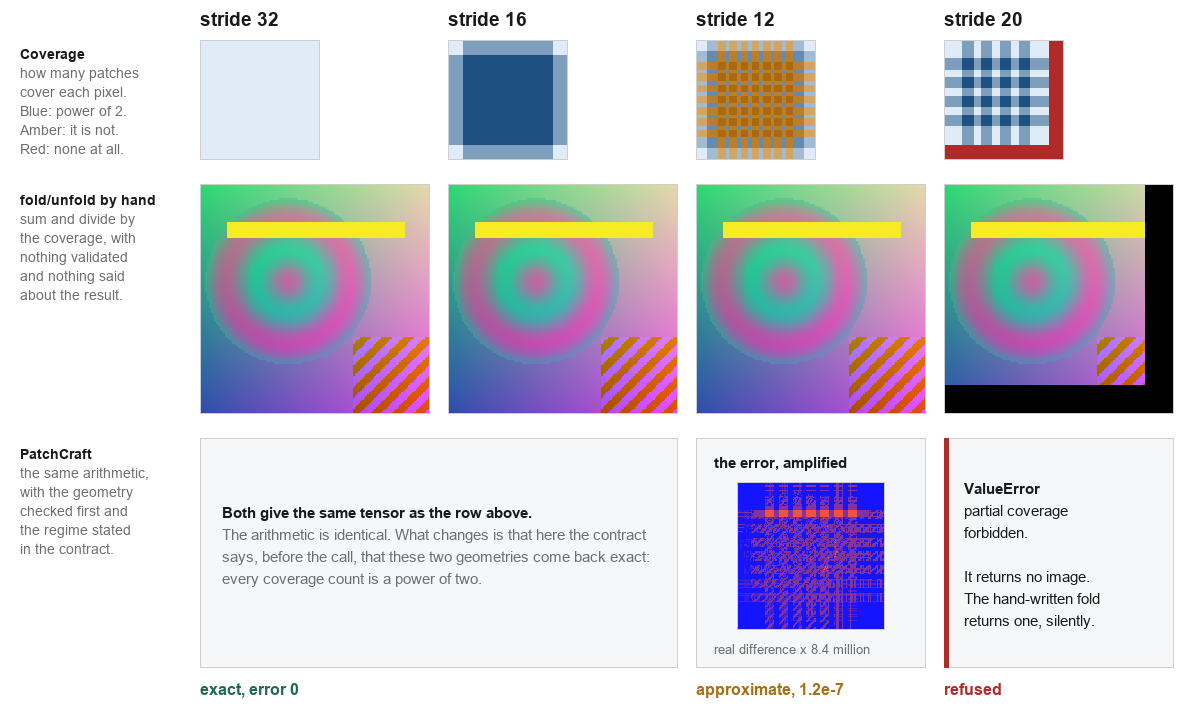
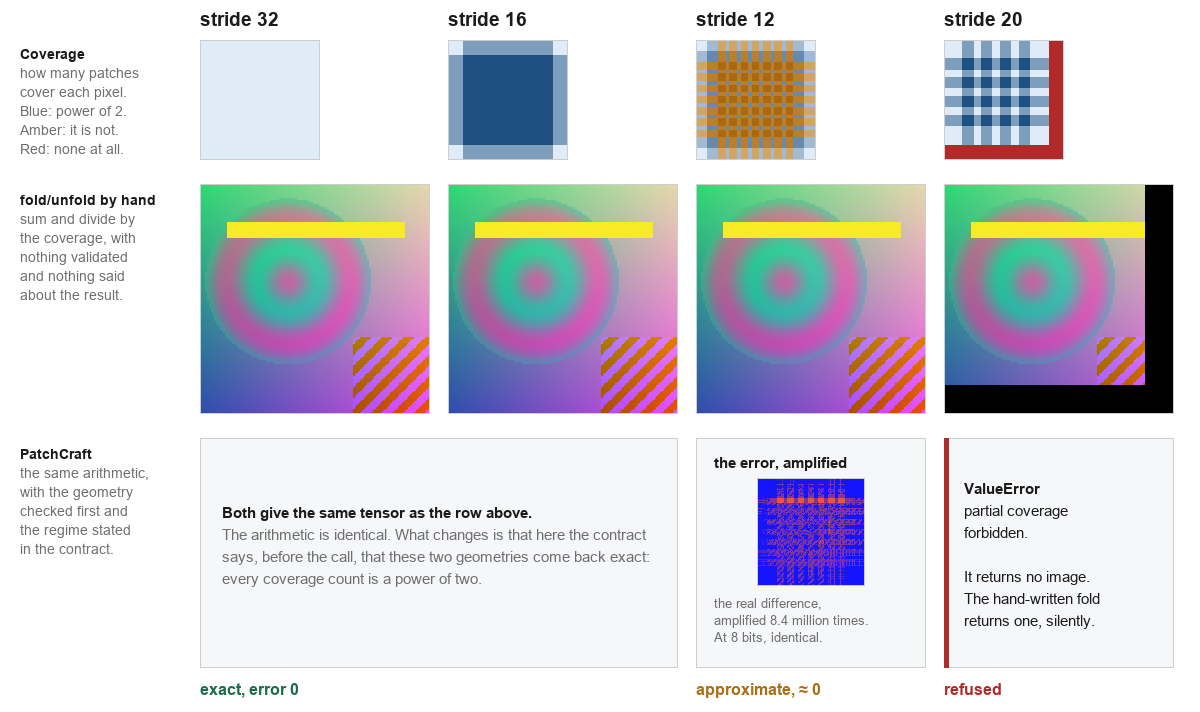
docs(outreach): say what 1.2e-7 means before saying what it is
A reader's point, and it is an editorial one worth keeping: 1.2e-7 is
correct and tells a human nothing about whether it matters. In an
illustration the useful thing is the significance; the precise figure
belongs where the library is being characterised.

So the stride 12 column now reads "aproximada, ~ 0", and the error panel
carries the two facts that give the number a scale: the map is the real
difference amplified 8.4 million times, and once both images are 8 bits
they are bit for bit identical. The amplification factor and that
identity are computed at draw time, with an assert, rather than typed in.

The page keeps the precise value and adds the measures around it: the
maximum error is 1.1921e-07, which is 151.5 dB of PSNR where 40 dB is
already treated as visually lossless, and it fits 32,897 times inside one
8-bit step. The difference only surfaces at 16 bits.

It also says why the contract still declares it, so that "approximately
zero" does not read as "ignore this": anyone summing thousands of patches
or chaining the operation accumulates. What the figure claims is that
approximate here is below what an eye or an 8-bit file records, not that
the error is nothing.

Changed region(s): [[0.5858, 0.6489, 0.74, 0.927], [0.6475, 0.9579, 0.7092, 0.9888]]

diff --git a/tools/make_outreach_figures.py b/tools/make_outreach_figures.py
@@ -676,13 +676,26 @@ def fig_stride(lang: str) -> None:
     back = reconstruct(
         extract(img, patch_size=PATCH, stride=st), image_shape=(3, SIZE, SIZE), stride=st
     )
-    heat, _peak = error_map(back, img)
+    heat, peak = error_map(back, img)
+    # A bare 1.2e-7 says nothing about whether it matters, so the caption
+    # carries the amplification that makes it visible and the fact that both
+    # images are bit-identical once they are 8 bits, which is measured here.
+    gain = f"{1.0 / peak / 1e6:.1f}".replace(".", s["decimal"])
+    eight_bit_same = torch.equal(
+        (img * 255).round().to(torch.uint8), (back * 255).round().to(torch.uint8)
+    )
+    assert eight_bit_same
     x = xs[2]
     c.box((x, craft_y), (x + panel, craft_y + panel), fill=BAND, outline=RULE)
     c.text((x + 18, craft_y + 16), s["diff_title"], 15, INK, bold=True)
-    inner = 148
-    c.framed(heat, (x + (panel - inner) // 2, craft_y + 44), inner)
-    c.text((x + 18, craft_y + 204), s["diff_cap"], 13, MUTED)
+    inner = 108
+    c.framed(heat, (x + (panel - inner) // 2, craft_y + 40), inner)
+    c.block(
+        (x + 18, craft_y + 158),
+        [line.format(gain) for line in s["diff_cap"]],
+        size=13,
+        lead=17,
+    )
     c.text((x, craft_y + panel + 12), s["caps"][1], 16, WARN, bold=True)
 
     x = xs[3]
@@ -763,7 +776,12 @@ FIG = {
             "de cobertura é potência de dois.",
         ],
         "diff_title": "o erro, ampliado",
-        "diff_cap": "diferença real x 8,4 milhões",
+        "decimal": ",",
+        "diff_cap": [
+            "a diferença real, ampliada",
+            "{} milhões de vezes.",
+            "Em 8 bits, idênticas.",
+        ],
         "refusal": [
             "*ValueError",
             "partial coverage",
@@ -773,7 +791,7 @@ FIG = {
             "O fold à mão devolve,",
             "e sem avisar.",
         ],
-        "caps": ("exatas, erro 0", "aproximada, 1.2e-7", "recusada"),
+        "caps": ("exatas, erro 0", "aproximada, ≈ 0", "recusada"),
         "mnist_cap": ("o dígito, 28x28", "patch 7, stride 7: 4x4 = 16", "o patch de índice 5"),
         "md_mnist": """
 ## 3. Numa imagem típica
@@ -838,8 +856,18 @@ antes e declarar o regime, não somar diferente.
 
 No stride 12 a volta é aproximada. As contagens de cobertura dele incluem 3, 6 e 9, e dividir
 um float por um número que não é potência de dois arredonda. O mapa do erro desenha exatamente
-a grade dessas regiões, que são as âmbar da primeira linha. O erro é de 1,2e-7, é pequeno, e é
-declarado no contrato em vez de descoberto depois.
+a grade dessas regiões, que são as âmbar da primeira linha.
+
+A figura marca esse caso como `≈ 0` porque é o que ele significa na prática, e aqui vai o
+número com a medida ao lado. O erro máximo é `1,1921e-07`, o que dá 151,5 dB de PSNR quando
+40 dB já costuma ser tratado como visualmente sem perda. Ele cabe 32.897 vezes dentro de um
+degrau de 8 bits, então convertendo as duas imagens para `uint8` elas saem bit a bit
+idênticas; só em 16 bits a diferença aparece.
+
+Nada disso torna o erro irrelevante, e é por isso que o contrato o declara: quem soma
+milhares de patches, ou encadeia a operação, acumula. O ponto é que "aproximada" aqui
+significa abaixo do que qualquer olho ou arquivo de 8 bits registra, e não uma imagem
+degradada.
 
 No stride 20 os dois caminhos divergem de verdade. A grade termina no pixel 112 de 128, e o
 `fold` escrito à mão devolve uma imagem com 3840 pixels em zero, sem levantar nada. O
@@ -896,7 +924,12 @@ Repositório: https://github.com/LeoPR/PatchCraft
             "every coverage count is a power of two.",
         ],
         "diff_title": "the error, amplified",
-        "diff_cap": "real difference x 8.4 million",
+        "decimal": ".",
+        "diff_cap": [
+            "the real difference,",
+            "amplified {} million times.",
+            "At 8 bits, identical.",
+        ],
         "refusal": [
             "*ValueError",
             "partial coverage",
@@ -906,7 +939,7 @@ Repositório: https://github.com/LeoPR/PatchCraft
             "The hand-written fold",
             "returns one, silently.",
         ],
-        "caps": ("exact, error 0", "approximate, 1.2e-7", "refused"),
+        "caps": ("exact, error 0", "approximate, ≈ 0", "refused"),
         "mnist_cap": ("the digit, 28x28", "patch 7, stride 7: 4x4 = 16", "the patch at index 5"),
         "md_mnist": """
 ## 3. On a typical image
@@ -972,8 +1005,18 @@ the regime, not summing differently.
 
 At stride 12 the round trip is approximate. Its coverage counts include 3, 6 and 9, and
 dividing a float by anything that is not a power of two rounds. The error map draws exactly
-the grid of those regions, which are the amber ones in the first row. The error is 1.2e-7, it
-is small, and it is declared in the contract rather than discovered afterwards.
+the grid of those regions, which are the amber ones in the first row.
+
+The figure marks that case `≈ 0` because that is what it means in practice, and here is the
+number with a measure beside it. The maximum error is `1.1921e-07`, which is 151.5 dB of
+PSNR, where 40 dB is already treated as visually lossless. It fits 32,897 times inside one
+8-bit step, so converting both images to `uint8` makes them bit for bit identical; the
+difference only appears at 16 bits.
+
+None of that makes the error irrelevant, which is why the contract declares it: anyone
+summing thousands of patches, or chaining the operation, accumulates. The point is that
+"approximate" here means below anything an eye or an 8-bit file records, not a degraded
+image.
 
 At stride 20 the two paths genuinely diverge. The grid ends at pixel 112 of 128, and the
 hand-written `fold` returns an image with 3840 pixels at zero, raising nothing. `reconstruct`

diff --git a/outreach/linkedin/pagina.md b/outreach/linkedin/pagina.md
@@ -49,8 +49,18 @@ antes e declarar o regime, não somar diferente.
 
 No stride 12 a volta é aproximada. As contagens de cobertura dele incluem 3, 6 e 9, e dividir
 um float por um número que não é potência de dois arredonda. O mapa do erro desenha exatamente
-a grade dessas regiões, que são as âmbar da primeira linha. O erro é de 1,2e-7, é pequeno, e é
-declarado no contrato em vez de descoberto depois.
+a grade dessas regiões, que são as âmbar da primeira linha.
+
+A figura marca esse caso como `≈ 0` porque é o que ele significa na prática, e aqui vai o
+número com a medida ao lado. O erro máximo é `1,1921e-07`, o que dá 151,5 dB de PSNR quando
+40 dB já costuma ser tratado como visualmente sem perda. Ele cabe 32.897 vezes dentro de um
+degrau de 8 bits, então convertendo as duas imagens para `uint8` elas saem bit a bit
+idênticas; só em 16 bits a diferença aparece.
+
+Nada disso torna o erro irrelevante, e é por isso que o contrato o declara: quem soma
+milhares de patches, ou encadeia a operação, acumula. O ponto é que "aproximada" aqui
+significa abaixo do que qualquer olho ou arquivo de 8 bits registra, e não uma imagem
+degradada.
 
 No stride 20 os dois caminhos divergem de verdade. A grade termina no pixel 112 de 128, e o
 `fold` escrito à mão devolve uma imagem com 3840 pixels em zero, sem levantar nada. O

diff --git a/outreach/linkedin/page.md b/outreach/linkedin/page.md
@@ -50,8 +50,18 @@ the regime, not summing differently.
 
 At stride 12 the round trip is approximate. Its coverage counts include 3, 6 and 9, and
 dividing a float by anything that is not a power of two rounds. The error map draws exactly
-the grid of those regions, which are the amber ones in the first row. The error is 1.2e-7, it
-is small, and it is declared in the contract rather than discovered afterwards.
+the grid of those regions, which are the amber ones in the first row.
+
+The figure marks that case `≈ 0` because that is what it means in practice, and here is the
+number with a measure beside it. The maximum error is `1.1921e-07`, which is 151.5 dB of
+PSNR, where 40 dB is already treated as visually lossless. It fits 32,897 times inside one
+8-bit step, so converting both images to `uint8` makes them bit for bit identical; the
+difference only appears at 16 bits.
+
+None of that makes the error irrelevant, which is why the contract declares it: anyone
+summing thousands of patches, or chaining the operation, accumulates. The point is that
+"approximate" here means below anything an eye or an 8-bit file records, not a degraded
+image.
 
 At stride 20 the two paths genuinely diverge. The grid ends at pixel 112 of 128, and the
 hand-written `fold` returns an image with 3840 pixels at zero, raising nothing. `reconstruct`
